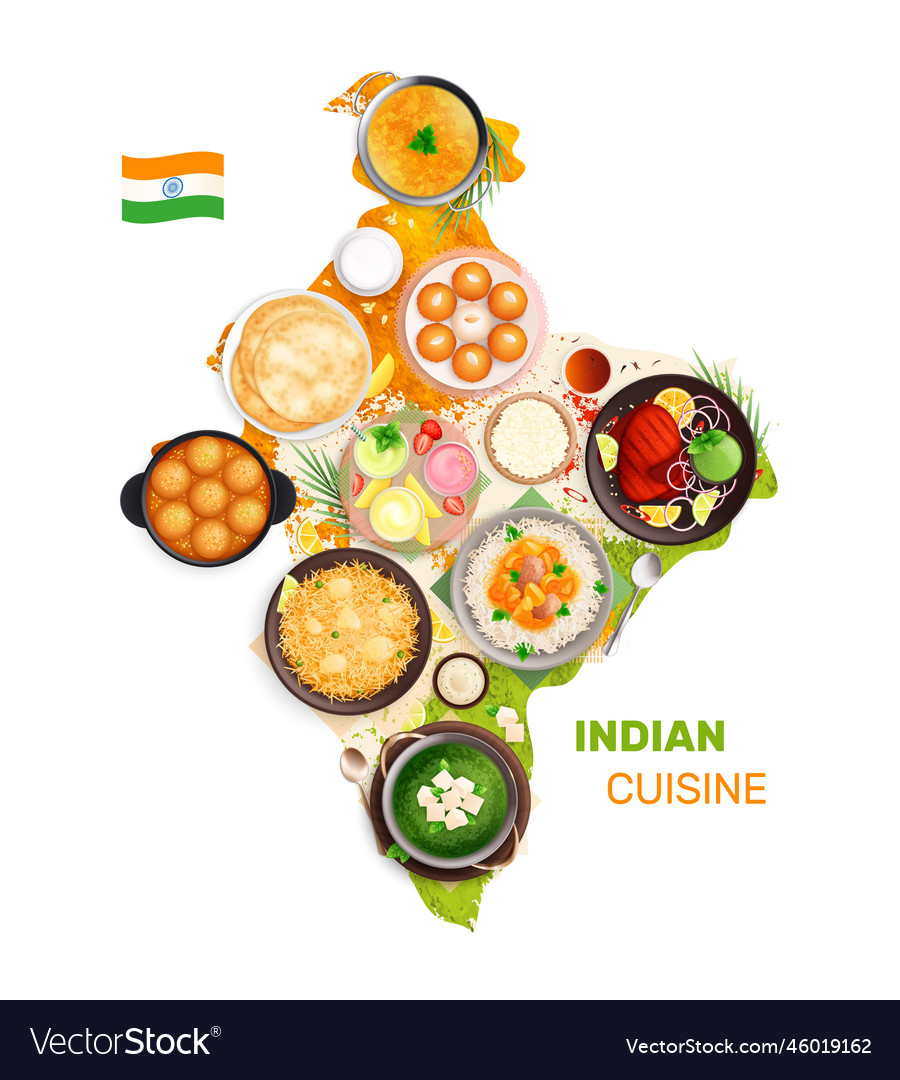
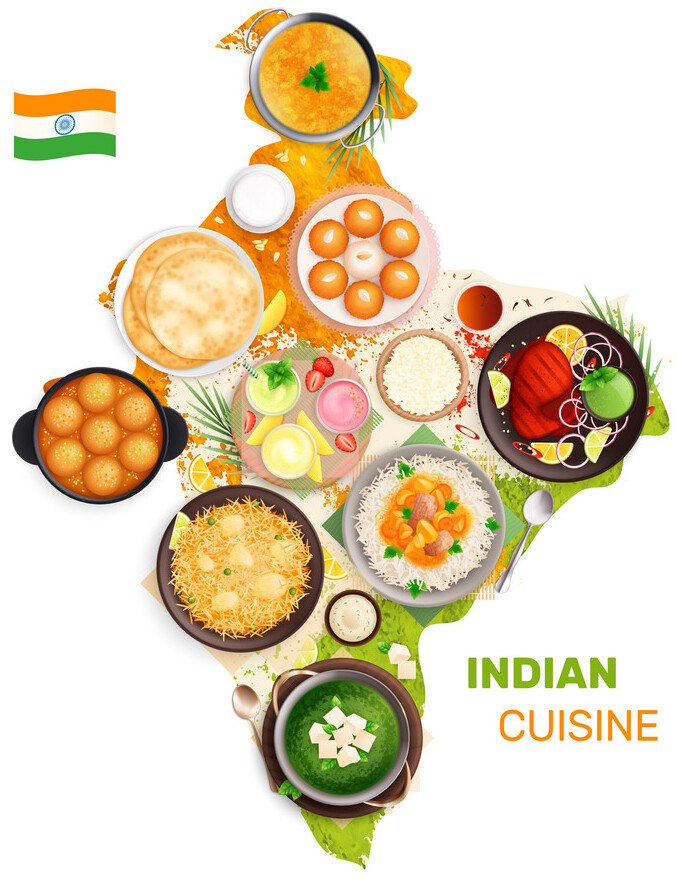
read more

diff --git a/recipes.html b/recipes.html
@@ -313,6 +313,9 @@
                             Roll each ball into a thin circle and cut it into two equal halves.
                             Take one half and form a cone shape by bringing together the cut edges and sealing them
                             using a little water.
+                            <details>
+                            <summary id="read_more">Read more</summary>
+                            <p id="rec_font">
                             Fill the cone with 1-2 tablespoons of the potato filling. Leave some space at the top.
                             Seal the top by applying water to the edges and pressing them together.
                             Repeat the process with the remaining dough and filling.
@@ -323,6 +326,8 @@
                             drain the excess oil.
                             Your delicious samosas are now ready to serve. Serve them hot with tamarind chutney or mint
                             chutney. Enjoy!
+                            </p>
+                            </details>
                         </p>
                     </div>
                 </div>

diff --git a/css/style.css b/css/style.css
@@ -3,6 +3,7 @@
     font-family: 'Montserrat';
     font-size: 20px;
 }
+  
 
 nav{
     /* border: 1px solid red; */
@@ -241,6 +242,7 @@ hr{
     flex-direction: column;
     /* justify-content: space-evenly; */
     gap: 20px;
+    padding: 0px 0px 15px 0px;
 }
 .rec_info div{
     margin-left: 22px;
@@ -287,6 +289,7 @@ hr{
 #rec_font 
 {
     font-size: medium;
+    line-height: 1.4rem;
 }
 .rec_info h3{
     color: #b12e06;
@@ -307,4 +310,31 @@ hr{
 
 .links ul{
     margin: auto;
+}
+
+#india{
+    width: 100%;
+    height:500px;
+    object-fit: scale-down;
+}
+
+.india_border{
+    width: 100%;
+    height: 500px;
+    max-width: 800px;
+    /* border: 8px solid #fff;
+    box-shadow: 0 4px 16px 0 rgba(0,0,0,.2);
+    border-radius: 10px; */
+    overflow: hidden;
+}
+
+#read_more{
+    font-size: medium;
+    line-height: 1.4rem;
+    color: #b12e06;
+    list-style: none;
+}
+
+#read_more:hover{
+    cursor: pointer;
 }

diff --git a/index.html b/index.html
@@ -64,8 +64,8 @@
         </div>
         <section class="section_2">
             <div class="regions">
-                <div class="div_spices">
-                    <img src="images/spices.jpg" id="spices_image">
+                <div class="india_border">
+                    <img src="images/46019162.jpg" id="india">
                 </div>
                 <div class="spices_info">
                     <div>
